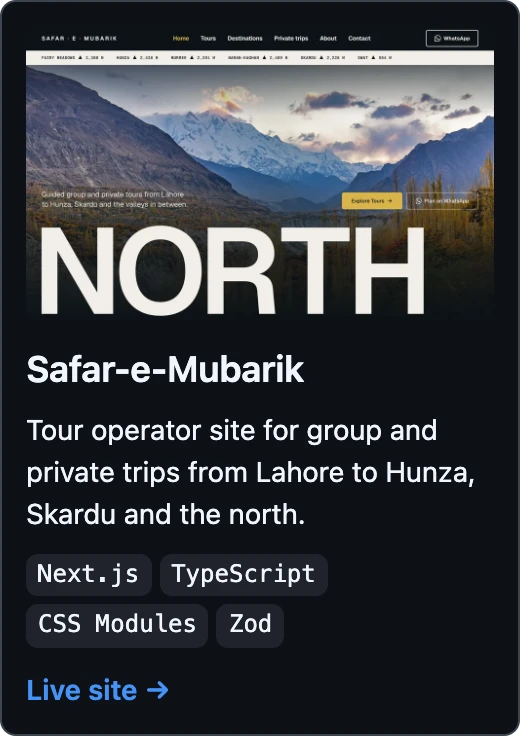
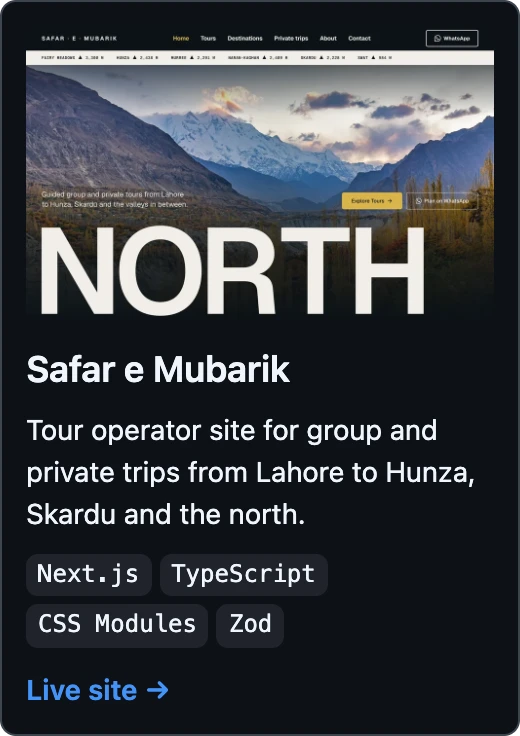
feat: reorder featured projects, rename Safar e Mubarik

Changed region(s): [[0.2154, 0.4688, 0.5846, 0.5312]]

diff --git a/README.md b/README.md
@@ -41,6 +41,26 @@
   <source media="(prefers-color-scheme: dark)" srcset="assets/cards/no-more-mafia-dark.webp">
   <img src="assets/cards/no-more-mafia-light.webp" width="260" alt="No More Mafia: Browser-based Mafia party game. One host opens a case and friends join with its number.">
 </picture></a>
+<a href="https://github.com/Abuubkar/foodio-mobile"><picture>
+  <source media="(prefers-color-scheme: dark)" srcset="assets/cards/foodio-dark.webp">
+  <img src="assets/cards/foodio-light.webp" width="260" alt="Foodio: Mobile app for food delivery and food reviews, backed by a restaurant-owned delivery API.">
+</picture></a>
+<a href="https://convo-lemon-three.vercel.app"><picture>
+  <source media="(prefers-color-scheme: dark)" srcset="assets/cards/convo-dark.webp">
+  <img src="assets/cards/convo-light.webp" width="260" alt="Convo: Real-time chat over WebSockets, with JWT auth, user profiles and avatar uploads.">
+</picture></a>
+<a href="https://safaremubarik.com/"><picture>
+  <source media="(prefers-color-scheme: dark)" srcset="assets/cards/safar-e-mubarik-dark.webp">
+  <img src="assets/cards/safar-e-mubarik-light.webp" width="260" alt="Safar e Mubarik: Tour operator site for group and private trips from Lahore to Hunza, Skardu and the north.">
+</picture></a>
+<a href="https://britnova.net/"><picture>
+  <source media="(prefers-color-scheme: dark)" srcset="assets/cards/britnova-dark.webp">
+  <img src="assets/cards/britnova-light.webp" width="260" alt="BritNova: Marketing site for an AI, cloud and web engineering agency.">
+</picture></a>
+<a href="https://execil.net/"><picture>
+  <source media="(prefers-color-scheme: dark)" srcset="assets/cards/execil-dark.webp">
+  <img src="assets/cards/execil-light.webp" width="260" alt="Execil: Marketing site for a medical billing / RCM company.">
+</picture></a>
 <a href="https://abuubkar.github.io/roadlog/"><picture>
   <source media="(prefers-color-scheme: dark)" srcset="assets/cards/roadlog-dark.webp">
   <img src="assets/cards/roadlog-light.webp" width="260" alt="RoadLog: Trip planner for truck drivers: route map, required stops and auto-drawn ELD daily logs.">
@@ -49,33 +69,13 @@
   <source media="(prefers-color-scheme: dark)" srcset="assets/cards/lead-finder-dark.webp">
   <img src="assets/cards/lead-finder-light.webp" width="260" alt="Lead Finder: Ranks small businesses as acquisition targets, naming the fact behind every point of the score.">
 </picture></a>
-<a href="https://convo-lemon-three.vercel.app"><picture>
-  <source media="(prefers-color-scheme: dark)" srcset="assets/cards/convo-dark.webp">
-  <img src="assets/cards/convo-light.webp" width="260" alt="Convo: Real-time chat over WebSockets, with JWT auth, user profiles and avatar uploads.">
-</picture></a>
-<a href="https://github.com/Abuubkar/foodio-mobile"><picture>
-  <source media="(prefers-color-scheme: dark)" srcset="assets/cards/foodio-dark.webp">
-  <img src="assets/cards/foodio-light.webp" width="260" alt="Foodio: Mobile app for food delivery and food reviews, backed by a restaurant-owned delivery API.">
-</picture></a>
 <a href="https://abuubkar.github.io/decision-log/"><picture>
   <source media="(prefers-color-scheme: dark)" srcset="assets/cards/decision-log-dark.webp">
   <img src="assets/cards/decision-log-light.webp" width="260" alt="Decision Log: Records what a team decided, why, when, and whether it still holds.">
 </picture></a>
-<a href="https://execil.net/"><picture>
-  <source media="(prefers-color-scheme: dark)" srcset="assets/cards/execil-dark.webp">
-  <img src="assets/cards/execil-light.webp" width="260" alt="Execil: Marketing site for a medical billing / RCM company.">
-</picture></a>
-<a href="https://britnova.net/"><picture>
-  <source media="(prefers-color-scheme: dark)" srcset="assets/cards/britnova-dark.webp">
-  <img src="assets/cards/britnova-light.webp" width="260" alt="BritNova: Marketing site for an AI, cloud and web engineering agency.">
-</picture></a>
-<a href="https://safaremubarik.com/"><picture>
-  <source media="(prefers-color-scheme: dark)" srcset="assets/cards/safar-e-mubarik-dark.webp">
-  <img src="assets/cards/safar-e-mubarik-light.webp" width="260" alt="Safar-e-Mubarik: Tour operator site for group and private trips from Lahore to Hunza, Skardu and the north.">
-</picture></a>
 </p>
 
-<p align="center"><b>Source code:</b> <a href="https://github.com/Abuubkar/roadlog">RoadLog</a> · <a href="https://github.com/Abuubkar/lead-gen">Lead Finder</a> · <a href="https://github.com/Abuubkar/convo-web">Convo web</a> · <a href="https://github.com/Abuubkar/convo-backend">Convo API</a> · <a href="https://github.com/Abuubkar/decision-log">Decision Log</a></p>
+<p align="center"><b>Source code:</b> <a href="https://github.com/Abuubkar/convo-web">Convo web</a> · <a href="https://github.com/Abuubkar/convo-backend">Convo API</a> · <a href="https://github.com/Abuubkar/roadlog">RoadLog</a> · <a href="https://github.com/Abuubkar/lead-gen">Lead Finder</a> · <a href="https://github.com/Abuubkar/decision-log">Decision Log</a></p>
 <!-- /cards:featured -->
 
 **Tools & experiments:**
